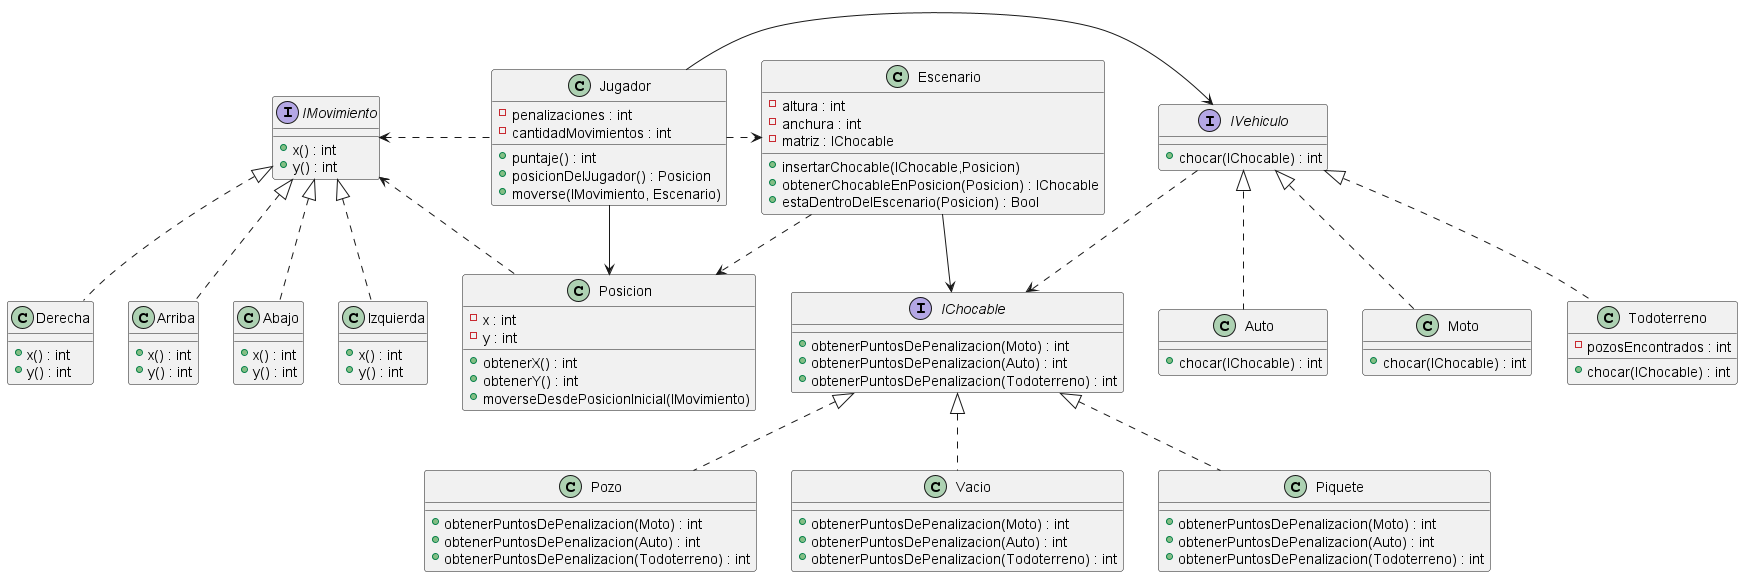
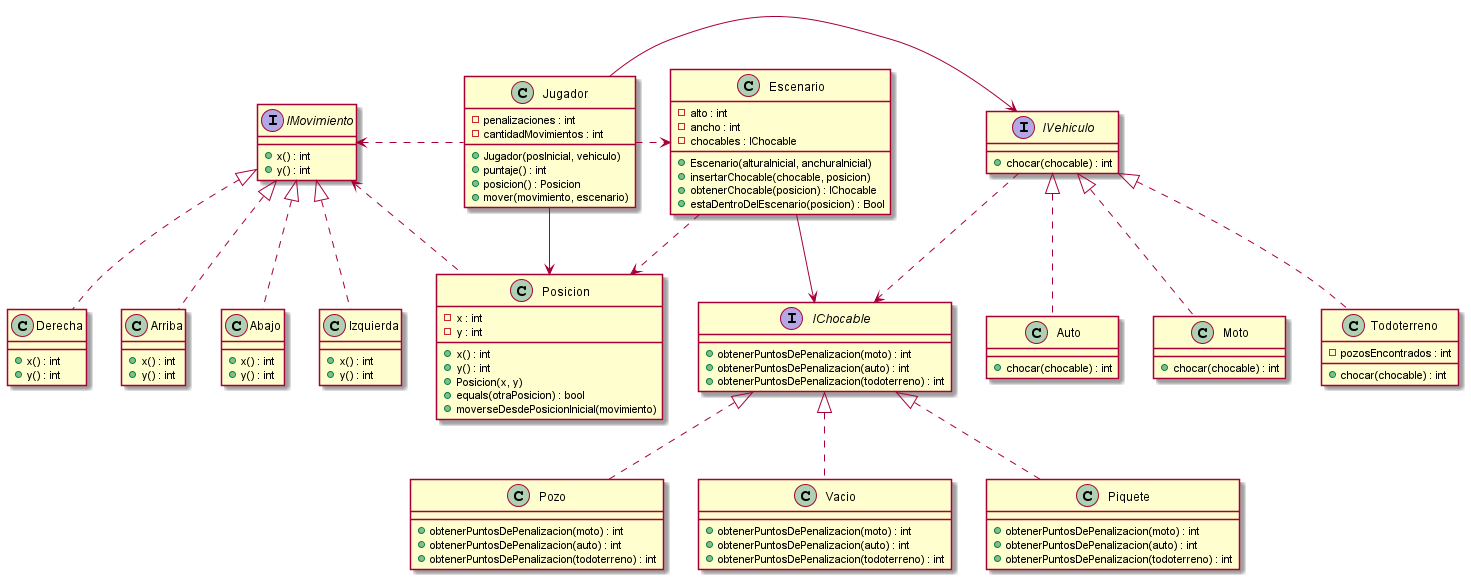
renamings de metodos y modificacion del diagrama de clase

diff --git a/src/main/java/edu/fiuba/algo3/modelo/Escenario.java b/src/main/java/edu/fiuba/algo3/modelo/Escenario.java
@@ -4,46 +4,48 @@ import edu.fiuba.algo3.modelo.Chocables.IChocable;
 import edu.fiuba.algo3.modelo.Chocables.Vacio;
 
 public class Escenario {
-    private final int altura;
-    private final int anchura;
-    private final IChocable[][] matriz;
+    private final int alto;
+    private final int ancho;
+    private final IChocable[][] chocables;
 
-    public Escenario(int alturaInicial, int anchuraInicial) throws EscenarioConLimitesInvalidosError {
+    public Escenario(int alturaInicial, int anchuraInicial) 
+    throws EscenarioConLimitesInvalidosError 
+    {
         if (alturaInicial < 0 || anchuraInicial < 0) {
             throw new EscenarioConLimitesInvalidosError();
         }
 
-        this.altura = alturaInicial;
-        this.anchura = anchuraInicial;
-        this.matriz = new IChocable[anchuraInicial][alturaInicial];
+        this.alto = alturaInicial;
+        this.ancho = anchuraInicial;
+        this.chocables = new IChocable[anchuraInicial][alturaInicial];
 
         for (int i = 0; i < anchuraInicial; i++) {
             for (int j = 0; j < alturaInicial; j++) {
-                matriz[i][j] = new Vacio();
+                chocables[i][j] = new Vacio();
             }
         }
     }
 
-    public boolean estaDentroDelEscenario(Posicion pos) {
-        int posX = pos.x();
-        int posY = pos.y();
+    public boolean estaDentroDelEscenario(Posicion posicion) {
+        int posX = posicion.x();
+        int posY = posicion.y();
 
-        if (posX < 0 || posX > anchura) {
+        if (posX < 0 || posX > ancho) {
             return false;
         }
 
-        return posY >= 0 && posY <= altura;
+        return posY >= 0 && posY <= alto;
     }
 
-    public void insertarChocable(IChocable chocable, Posicion pos) {
-        if (estaDentroDelEscenario(pos)) {
-            matriz[pos.x()][pos.y()] = chocable;
+    public void insertarChocable(IChocable chocable, Posicion posicion) {
+        if (estaDentroDelEscenario(posicion)) {
+            chocables[posicion.x()][posicion.y()] = chocable;
         }
     }
 
-    public IChocable obtenerChocableEnPosicion(Posicion pos) {
-        if (estaDentroDelEscenario(pos)) {
-            return matriz[pos.x()][pos.y()];
+    public IChocable obtenerChocable(Posicion posicion) {
+        if (estaDentroDelEscenario(posicion)) {
+            return chocables[posicion.x()][posicion.y()];
         }
         return null;
     }

diff --git a/src/main/test/edu/fiuba/algo3/casos/CasosTest.java b/src/main/test/edu/fiuba/algo3/casos/CasosTest.java
@@ -12,7 +12,6 @@ import edu.fiuba.algo3.modelo.Vehiculos.IVehiculo;
 import org.junit.jupiter.api.Test;
 
 import static org.junit.jupiter.api.Assertions.assertEquals;
-import static org.junit.jupiter.api.Assertions.assertTrue;
 
 public class CasosTest {
 
@@ -29,7 +28,7 @@ public class CasosTest {
 
         escenario.insertarChocable(pozo, new Posicion(2, 1));
 
-        jugador.moverse(new Derecha(), escenario);
+        jugador.mover(new Derecha(), escenario);
 
         assertEquals(jugador.puntaje(), 4);
     }
@@ -72,7 +71,7 @@ public class CasosTest {
 
         escenario.insertarChocable(pozo, new Posicion(2, 1));
 
-        jugador.moverse(new Derecha(), escenario);
+        jugador.mover(new Derecha(), escenario);
 
         assertEquals(jugador.puntaje(), 4);
     }
@@ -90,7 +89,7 @@ public class CasosTest {
 
         escenario.insertarChocable(pozo, new Posicion(2, 1));
 
-        jugador.moverse(new Derecha(), escenario);
+        jugador.mover(new Derecha(), escenario);
 
         assertEquals(jugador.puntaje(), 1);
     }
@@ -108,7 +107,7 @@ public class CasosTest {
 
         escenario.insertarChocable(piquete, new Posicion(2, 1));
 
-        jugador.moverse(new Derecha(), escenario);
+        jugador.mover(new Derecha(), escenario);
 
         assertEquals(jugador.puntaje(), 3);
     }
@@ -130,9 +129,9 @@ public class CasosTest {
         escenario.insertarChocable(pozo, new Posicion(4, 1));
 
         // Muevo tres veces al jugador
-        jugador.moverse(new Derecha(), escenario);
-        jugador.moverse(new Derecha(), escenario);
-        jugador.moverse(new Derecha(), escenario);
+        jugador.mover(new Derecha(), escenario);
+        jugador.mover(new Derecha(), escenario);
+        jugador.mover(new Derecha(), escenario);
 
         assertEquals(jugador.puntaje(), 5);
     }

diff --git a/src/main/test/edu/fiuba/algo3/unitarios/JugadorTest.java b/src/main/test/edu/fiuba/algo3/unitarios/JugadorTest.java
@@ -1,7 +1,6 @@
 package edu.fiuba.algo3.unitarios;
 
 import edu.fiuba.algo3.modelo.*;
-import edu.fiuba.algo3.modelo.Movimiento.Abajo;
 import edu.fiuba.algo3.modelo.Movimiento.Arriba;
 import edu.fiuba.algo3.modelo.Movimiento.Izquierda;
 import edu.fiuba.algo3.modelo.Vehiculos.Moto;
@@ -29,9 +28,9 @@ public class JugadorTest {
         Jugador jugador = new Jugador(new Posicion(), new Moto());
         Escenario escenario = new Escenario(10, 10);
 
-        jugador.moverse(new Arriba(), escenario);
+        jugador.mover(new Arriba(), escenario);
 
-        assertEquals(jugador.posicionDelJugador(), new Posicion(0, 1));
+        assertEquals(jugador.posicion(), new Posicion(0, 1));
     }
 
 
@@ -42,11 +41,11 @@ public class JugadorTest {
         Jugador jugador = new Jugador(new Posicion(), new Moto());
         Escenario escenario = new Escenario(10, 10);
 
-        jugador.moverse(new Izquierda(), escenario);
+        jugador.mover(new Izquierda(), escenario);
 
-        assertEquals(jugador.posicionDelJugador(), new Posicion(0, 0));
+        assertEquals(jugador.posicion(), new Posicion(0, 0));
     }
 
 
-    
+
 }

diff --git a/src/main/java/edu/fiuba/algo3/modelo/Posicion.java b/src/main/java/edu/fiuba/algo3/modelo/Posicion.java
@@ -11,22 +11,22 @@ public class Posicion {
         this.y = 0;
     }
 
-    public Posicion(int valorX, int valorY) {
-        this.x = valorX;
-        this.y = valorY;
+    public Posicion(int x, int y) {
+        this.x = x;
+        this.y = y;
     }
 
     @Override
-    public boolean equals(Object obj) {
-        if (this == obj) {
+    public boolean equals(Object otraPosicion) {
+        if (this == otraPosicion) {
             return true;
         }
 
-        if (obj == null || getClass() != obj.getClass()) {
+        if (otraPosicion == null || getClass() != otraPosicion.getClass()) {
             return false;
         }
 
-        Posicion posicion = (Posicion) obj;
+        Posicion posicion = (Posicion) otraPosicion;
 
         if (x != posicion.x) {
             return false;
@@ -36,11 +36,11 @@ public class Posicion {
     }
 
     public int x() {
-        return x;
+        return this.x;
     }
 
     public int y() {
-        return y;
+        return this.y;
     }
 
     public void moverseDesdePosicionInicial(IMovimiento movimiento) {

diff --git a/src/main/java/edu/fiuba/algo3/modelo/Jugador.java b/src/main/java/edu/fiuba/algo3/modelo/Jugador.java
@@ -16,7 +16,7 @@ public class Jugador {
         this.penalizaciones = 0;
     }
 
-    public Posicion posicionDelJugador() {
+    public Posicion posicion() {
         return this.posicion;
     }
 
@@ -24,7 +24,7 @@ public class Jugador {
         return this.cantidadMovimientos + this.penalizaciones;
     }
 
-    public void moverse(IMovimiento movimiento, Escenario escenario) {
+    public void mover(IMovimiento movimiento, Escenario escenario) {
         Posicion nuevaPosicion = new Posicion(posicion.x(), posicion.y());
 
         nuevaPosicion.moverseDesdePosicionInicial(movimiento);
@@ -32,7 +32,7 @@ public class Jugador {
         if (escenario.estaDentroDelEscenario(nuevaPosicion)) {
 
             this.penalizaciones += this.vehiculo.chocar(
-                escenario.obtenerChocableEnPosicion(nuevaPosicion));
+                escenario.obtenerChocable(nuevaPosicion));
 
             this.posicion = nuevaPosicion;
             this.cantidadMovimientos++;

diff --git a/src/main/test/edu/fiuba/algo3/unitarios/EscenarioTest.java b/src/main/test/edu/fiuba/algo3/unitarios/EscenarioTest.java
@@ -1,7 +1,6 @@
 package edu.fiuba.algo3.unitarios;
 
 import edu.fiuba.algo3.modelo.Chocables.Pozo;
-import edu.fiuba.algo3.modelo.Chocables.Vacio;
 import edu.fiuba.algo3.modelo.Escenario;
 import edu.fiuba.algo3.modelo.EscenarioConLimitesInvalidosError;
 import edu.fiuba.algo3.modelo.Posicion;
@@ -54,7 +53,7 @@ public class EscenarioTest {
         Pozo pozo = new Pozo();
 
         escenario.insertarChocable(pozo, new Posicion(11, 11));
-        assertNull(escenario.obtenerChocableEnPosicion(new Posicion(11, 11)));
+        assertNull(escenario.obtenerChocable(new Posicion(11, 11)));
     }
 
 
@@ -96,7 +95,7 @@ public class EscenarioTest {
     {
         Escenario escenario = new Escenario(10, 10);
 
-        assertNull(escenario.obtenerChocableEnPosicion(new Posicion(11, 11)));
+        assertNull(escenario.obtenerChocable(new Posicion(11, 11)));
     }
 
 

diff --git a/src/main/java/edu/fiuba/algo3/modelo/Vehiculos/Todoterreno.java b/src/main/java/edu/fiuba/algo3/modelo/Vehiculos/Todoterreno.java
@@ -10,11 +10,11 @@ public class Todoterreno implements IVehiculo {
     }
 
     @Override
-    public int chocar(IChocable elemento) {
+    public int chocar(IChocable chocable) {
         this.pozosEncontrados += 1;
         if (this.pozosEncontrados >= 3) {
             this.pozosEncontrados = 0;
-            return elemento.obtenerPuntosDePenalizacion(this);
+            return chocable.obtenerPuntosDePenalizacion(this);
         }
 
         return 0;

diff --git a/src/main/java/edu/fiuba/algo3/modelo/Vehiculos/Auto.java b/src/main/java/edu/fiuba/algo3/modelo/Vehiculos/Auto.java
@@ -5,7 +5,7 @@ import edu.fiuba.algo3.modelo.Chocables.IChocable;
 public class Auto implements IVehiculo {
 
     @Override
-    public int chocar(IChocable elemento) {
-        return elemento.obtenerPuntosDePenalizacion(this);
+    public int chocar(IChocable chocable) {
+        return chocable.obtenerPuntosDePenalizacion(this);
     }
 }

diff --git a/src/main/java/edu/fiuba/algo3/modelo/Vehiculos/Moto.java b/src/main/java/edu/fiuba/algo3/modelo/Vehiculos/Moto.java
@@ -5,7 +5,7 @@ import edu.fiuba.algo3.modelo.Chocables.IChocable;
 public class Moto implements IVehiculo {
 
     @Override
-    public int chocar(IChocable elemento) {
-        return elemento.obtenerPuntosDePenalizacion(this);
+    public int chocar(IChocable chocable) {
+        return chocable.obtenerPuntosDePenalizacion(this);
     }
 }

diff --git a/src/main/test/edu/fiuba/algo3/unitarios/IMovimientoTest.java b/src/main/test/edu/fiuba/algo3/unitarios/IMovimientoTest.java
@@ -2,8 +2,6 @@ package edu.fiuba.algo3.unitarios;
 
 import org.junit.jupiter.api.Test;
 
-import static org.junit.jupiter.api.Assertions.assertEquals;
-
 public class IMovimientoTest {
 
 
@@ -29,6 +27,6 @@ public class IMovimientoTest {
     }
 
 
-    
+
 
 }

diff --git a/src/main/java/edu/fiuba/algo3/modelo/Vehiculos/IVehiculo.java b/src/main/java/edu/fiuba/algo3/modelo/Vehiculos/IVehiculo.java
@@ -3,5 +3,5 @@ package edu.fiuba.algo3.modelo.Vehiculos;
 import edu.fiuba.algo3.modelo.Chocables.IChocable;
 
 public interface IVehiculo {
-    int chocar(IChocable elemento);
+    int chocar(IChocable chocable);
 }
